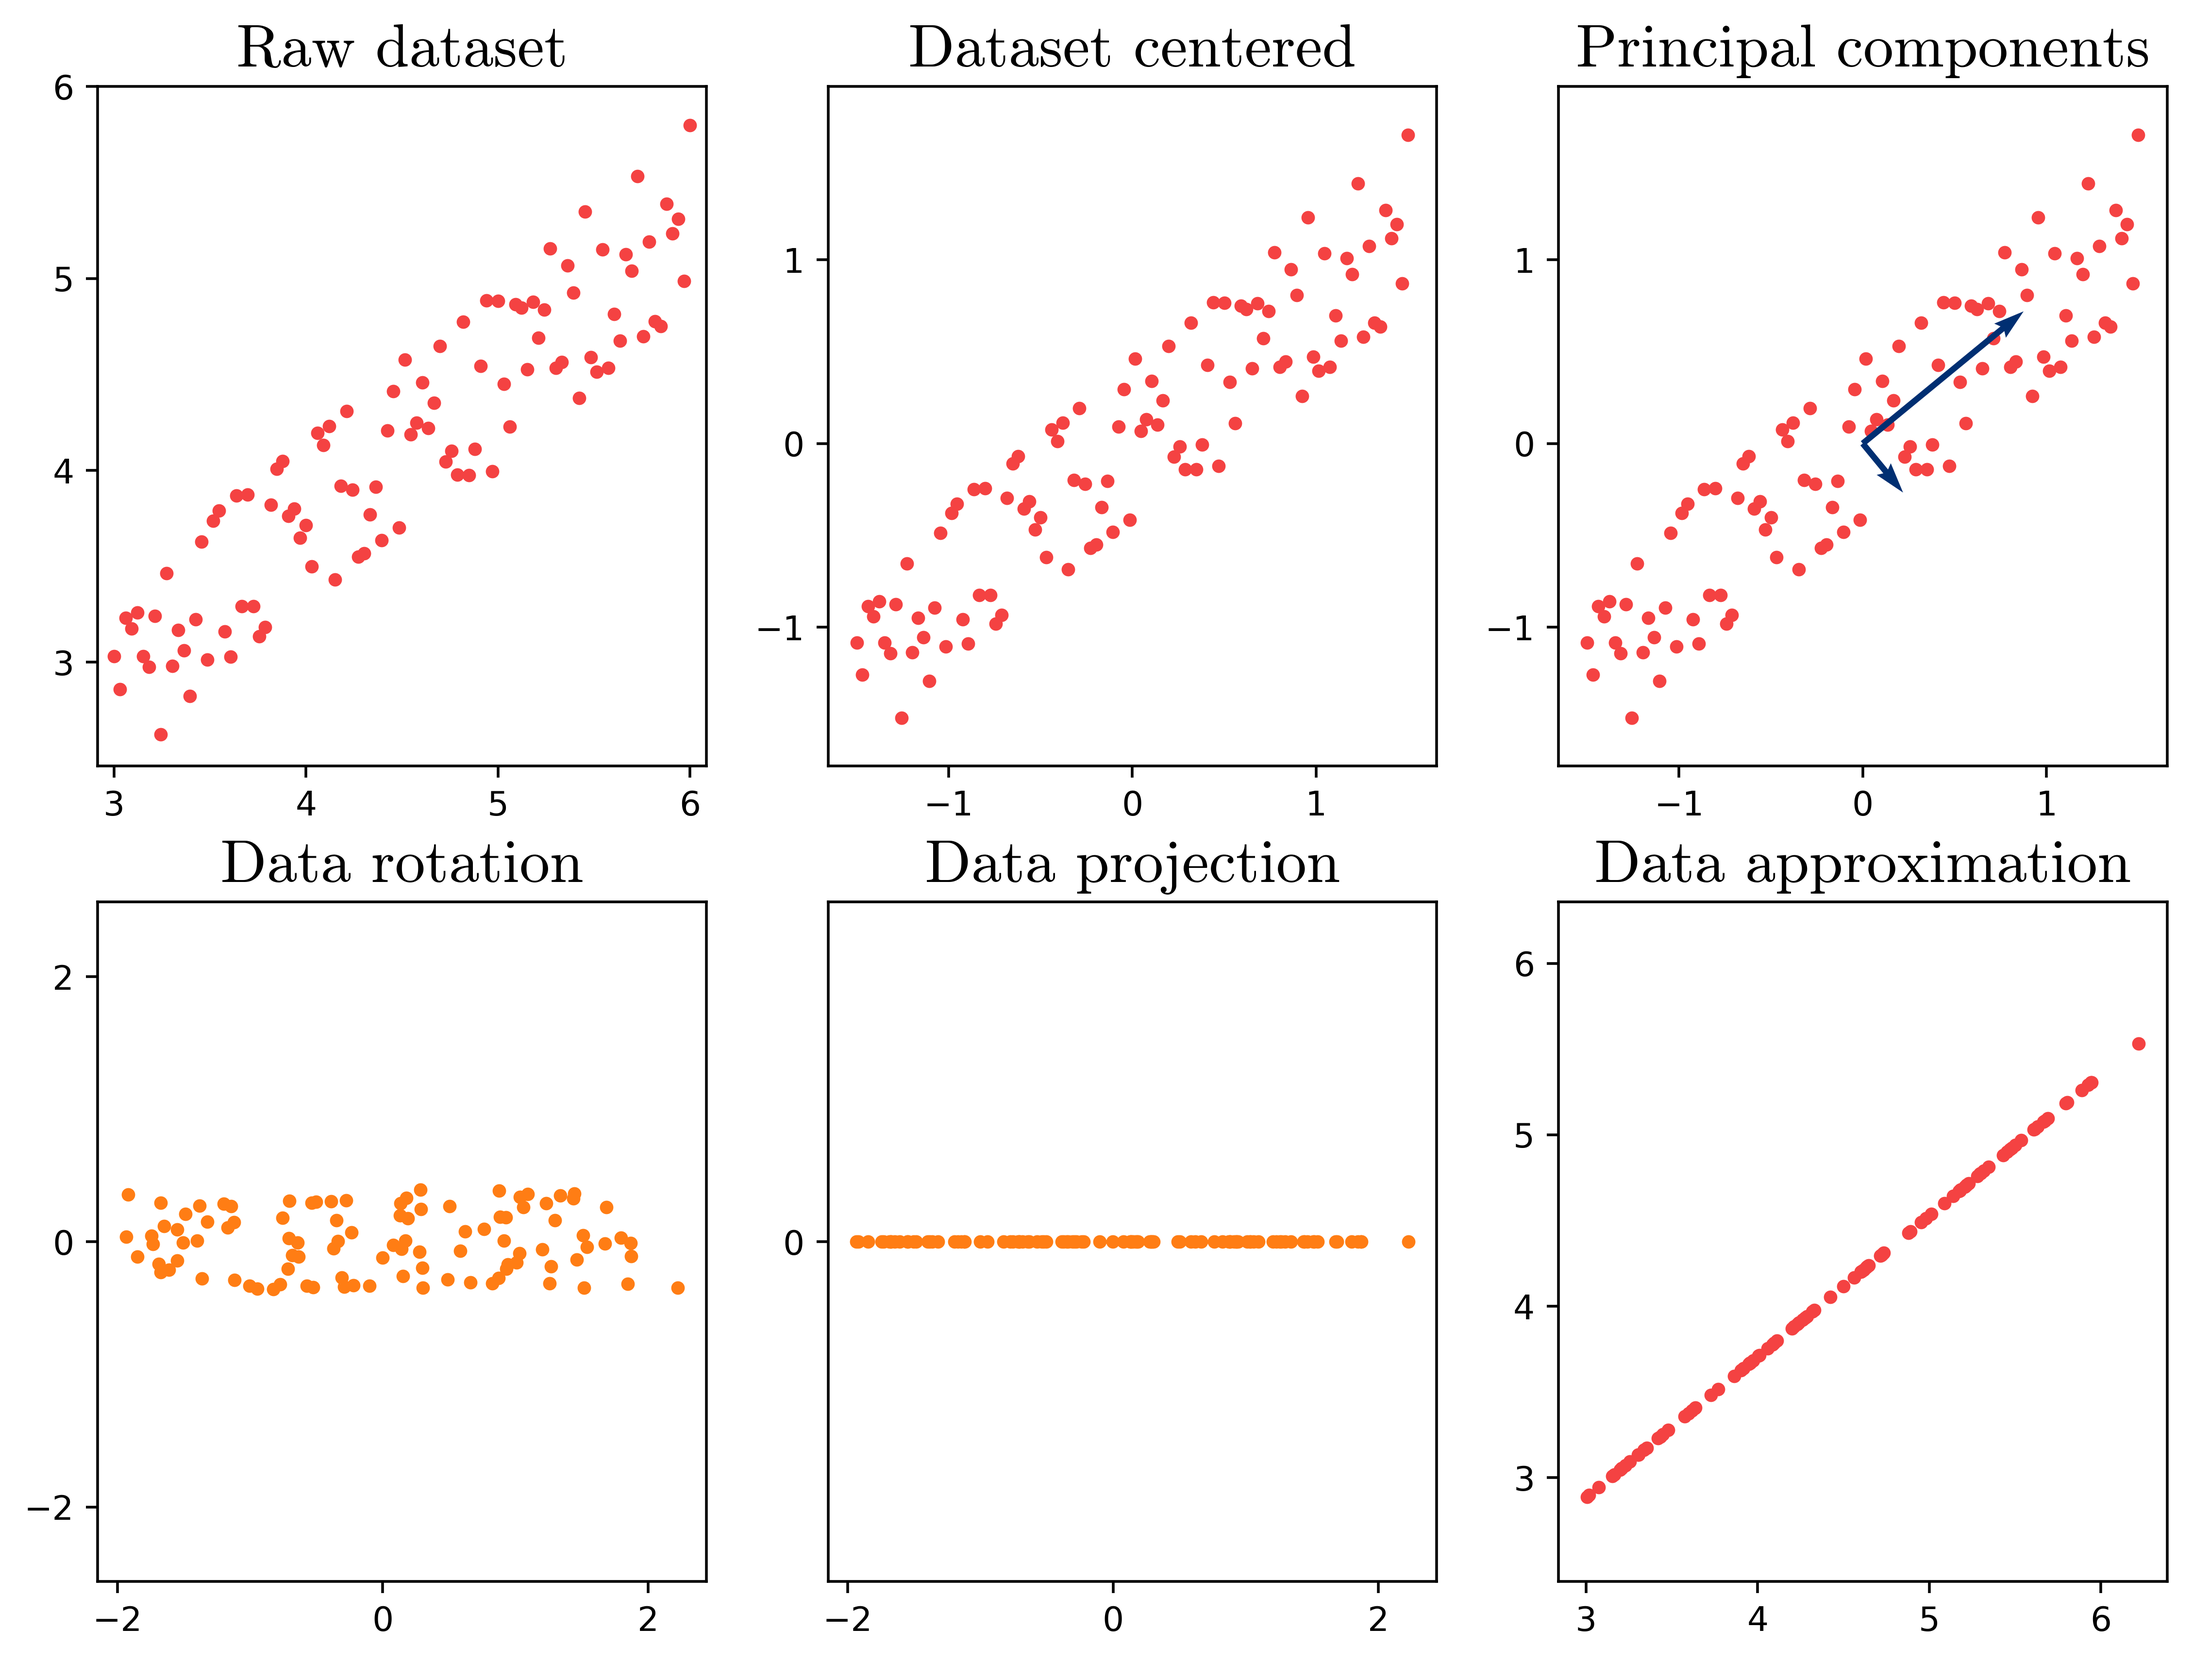
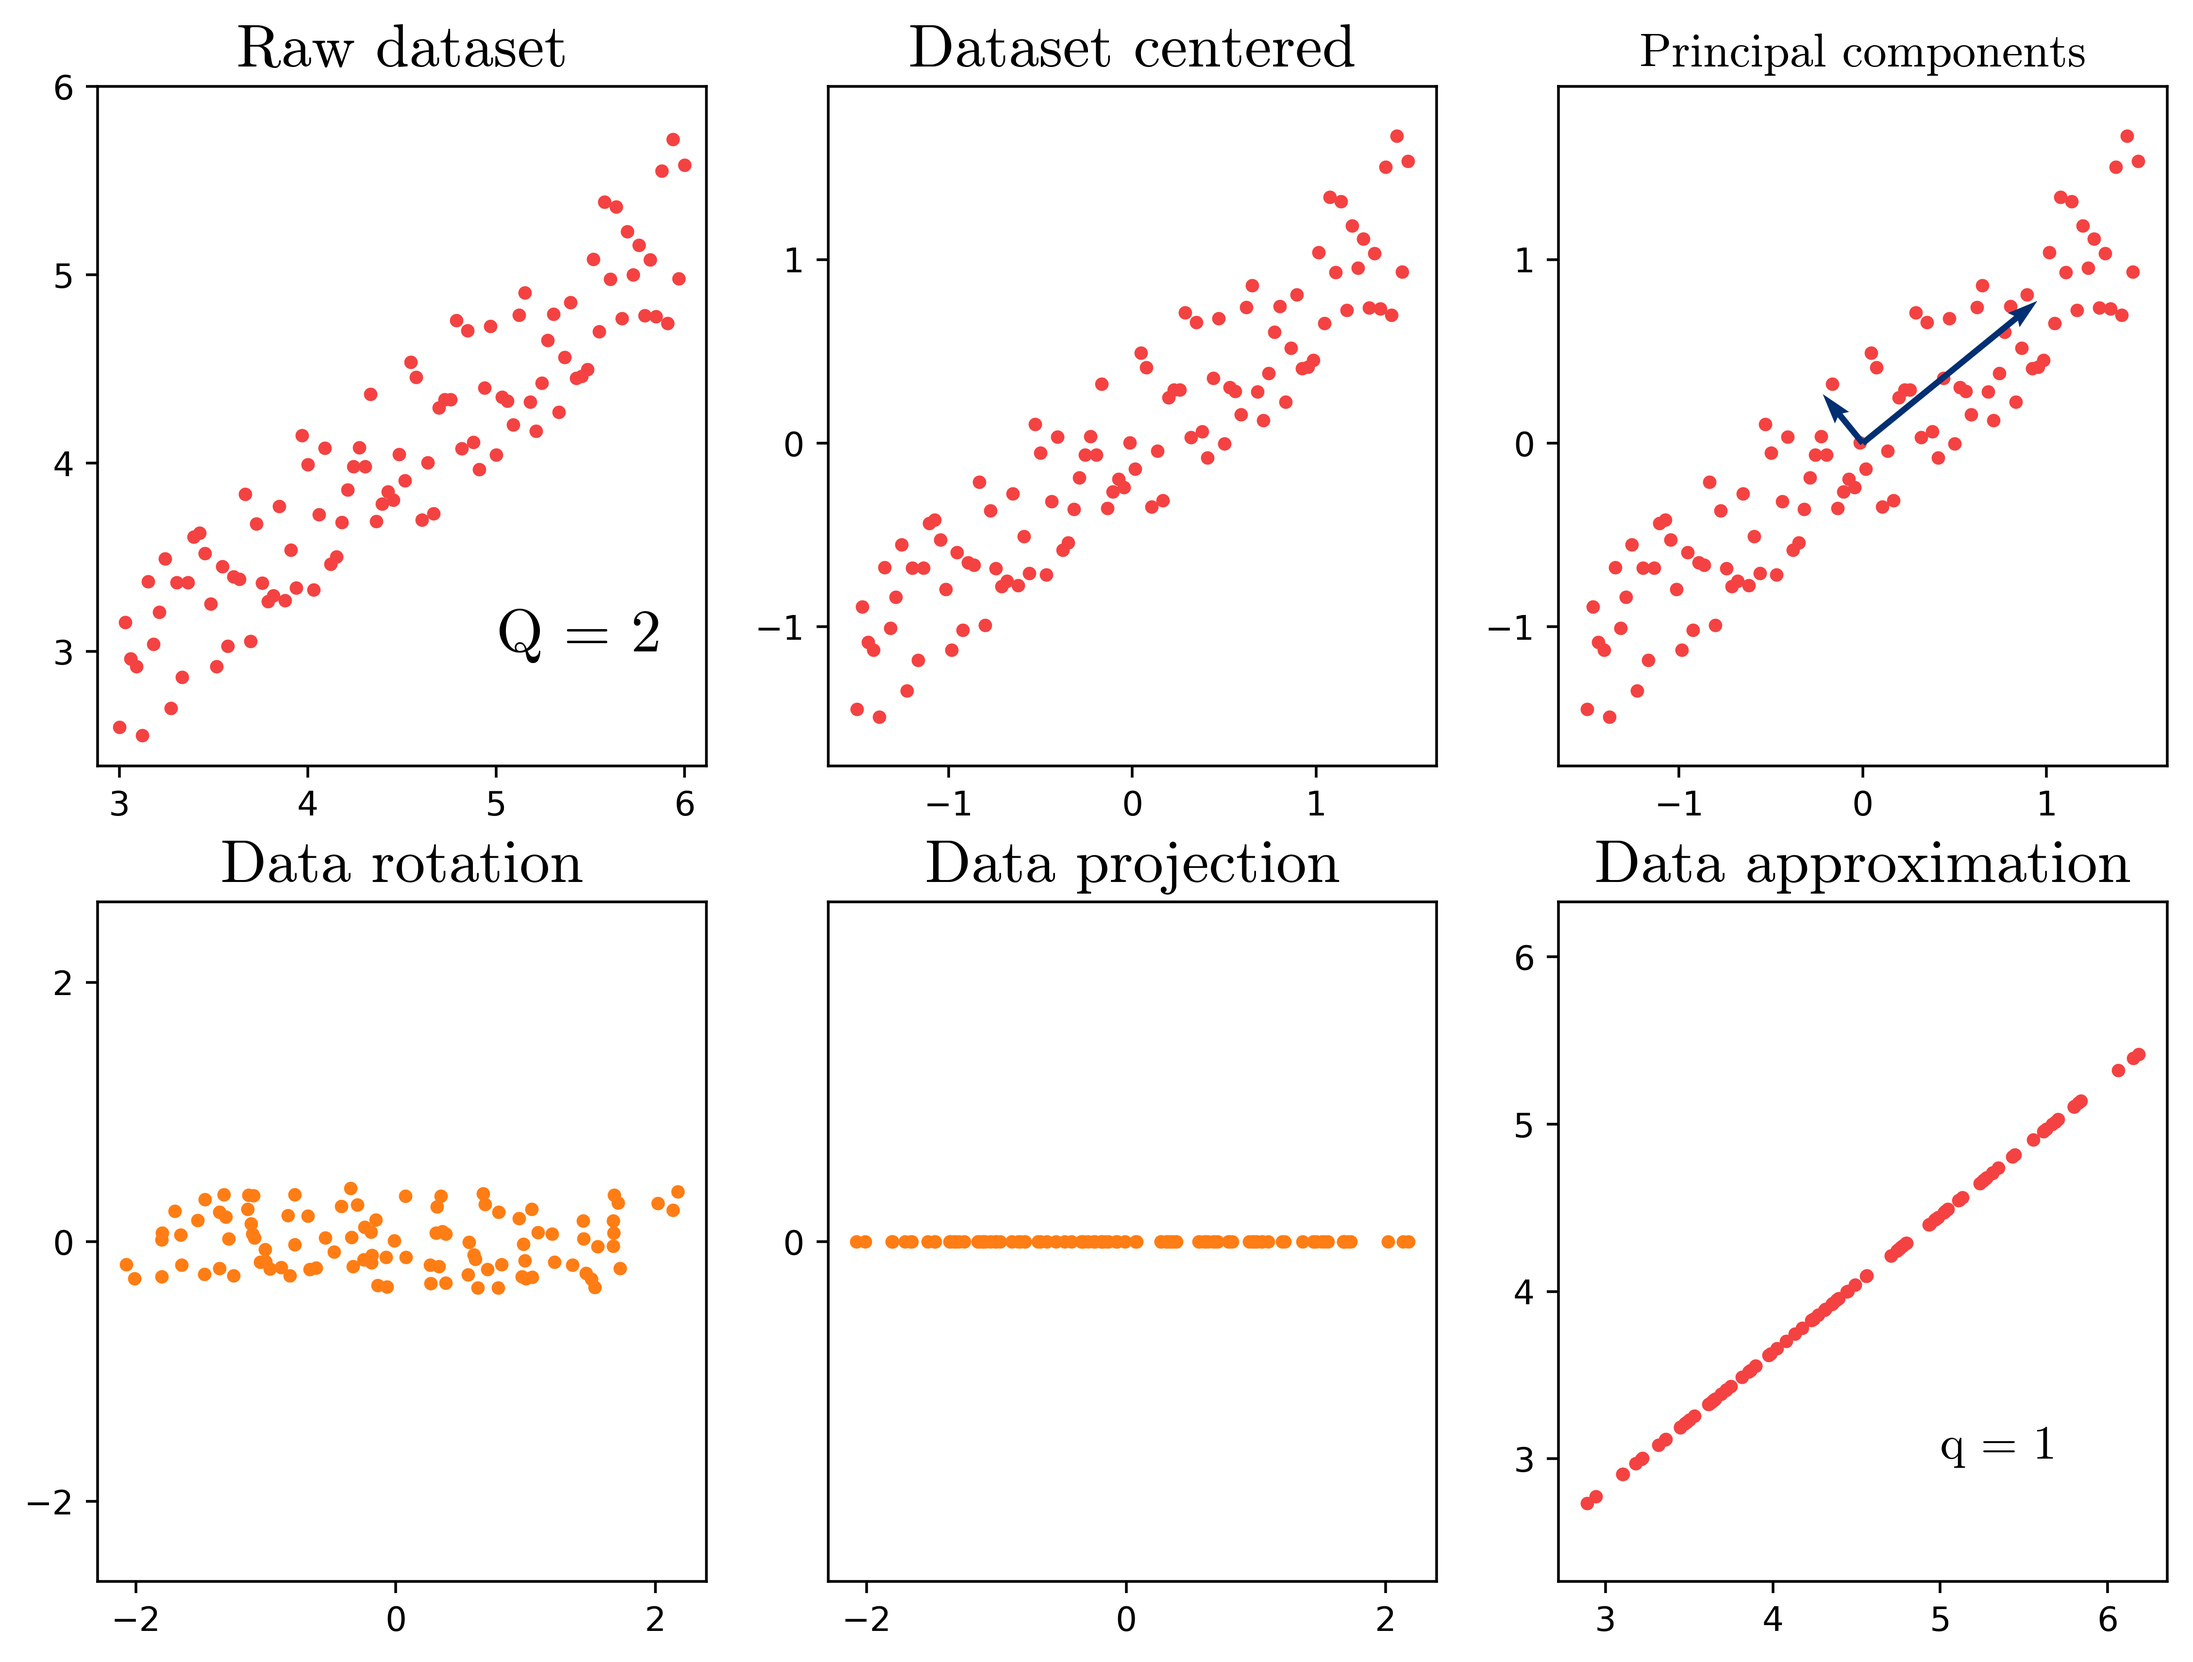
Subplot updates

diff --git a/PCA/pca-example-subplot.py b/PCA/pca-example-subplot.py
@@ -13,6 +13,7 @@ ln = 1
 csfont = {'fontname':'cmr10'}
 hfont = {'fontname':'cmr10'}
 font_title = 18
+font_text = 14
 
 # Generate randomized dataset with linearity
 Np = 100
@@ -37,6 +38,7 @@ figure = plt.figure(figsize=(11, 8))
 plt.subplot(2,3,1)
 plt.scatter(Dataset[:,0], Dataset[:,1], color=lineColour, marker='.', linewidth=ln)
 plt.title('Raw dataset', **csfont, fontsize=font_title)
+plt.text(5, 3, 'Q = 2', **csfont, fontsize=font_title)
 plt.axis('equal')
 plt.yticks([3, 4, 5, 6]), plt.xticks([3, 4, 5, 6])
 
@@ -52,7 +54,7 @@ plt.scatter(Dataset_proc[:,0], Dataset_proc[:,1], color=lineColour, marker='.', 
 # since the larger it is, the shorter the vector.
 plt.quiver(PCs[0,0], PCs[0,1], scale=70*(1-eigvals[0]), color=PCColour, width=0.01)
 plt.quiver(PCs[1,0], PCs[1,1], scale=10*(1-eigvals[1]), color=PCColour, width=0.01)
-plt.title('Principal components', **csfont, fontsize=font_title)
+plt.title('Principal components', **csfont, fontsize=font_text)
 plt.axis('equal')
 plt.yticks([-1, 0, 1]), plt.xticks([-1, 0, 1])
 
@@ -71,6 +73,7 @@ plt.yticks([0]), plt.xticks([-2, 0, 2])
 plt.subplot(2,3,6)
 plt.scatter([Dataset_approx[:,0]], [Dataset_approx[:,1]], color=lineColour, marker='.', linewidth=ln)
 plt.title('Data approximation', **csfont, fontsize=font_title)
+plt.text(5, 3, 'q = 1', **csfont, fontsize=font_text)
 plt.axis('equal')
 plt.yticks([3, 4, 5, 6]), plt.xticks([3, 4, 5, 6])
 
